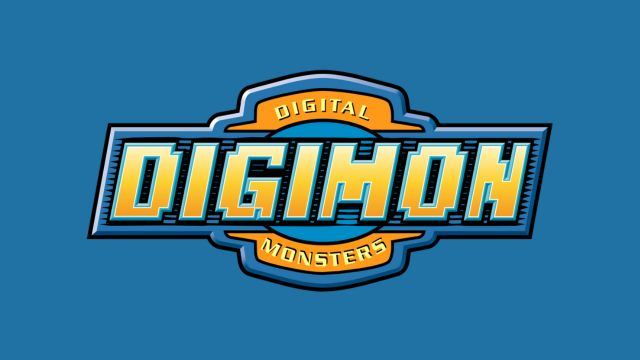
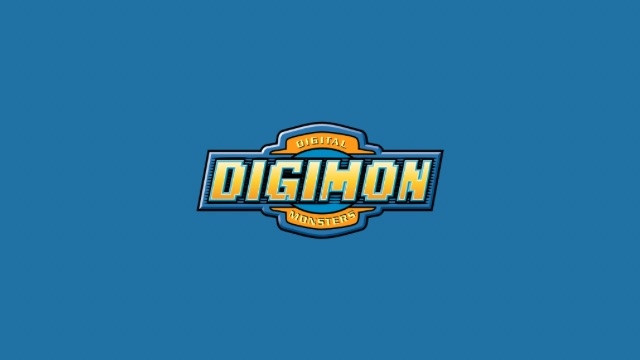
s

Changed region(s): [[0.125, 0.1833, 0.875, 0.825]]

diff --git a/media.css b/media.css
@@ -275,6 +275,7 @@
     display: flex;
     justify-content: center;
     align-items: center;
+    z-index: 99;
   }
   .fin-seccion img{
     width: 100%;

diff --git a/styles.css b/styles.css
@@ -720,6 +720,7 @@ gap: 6px;
   display: flex;
   justify-content: center;
   align-items: center;
+  z-index: 99;
 }
 .fin-seccion img{
   width: 30%;
